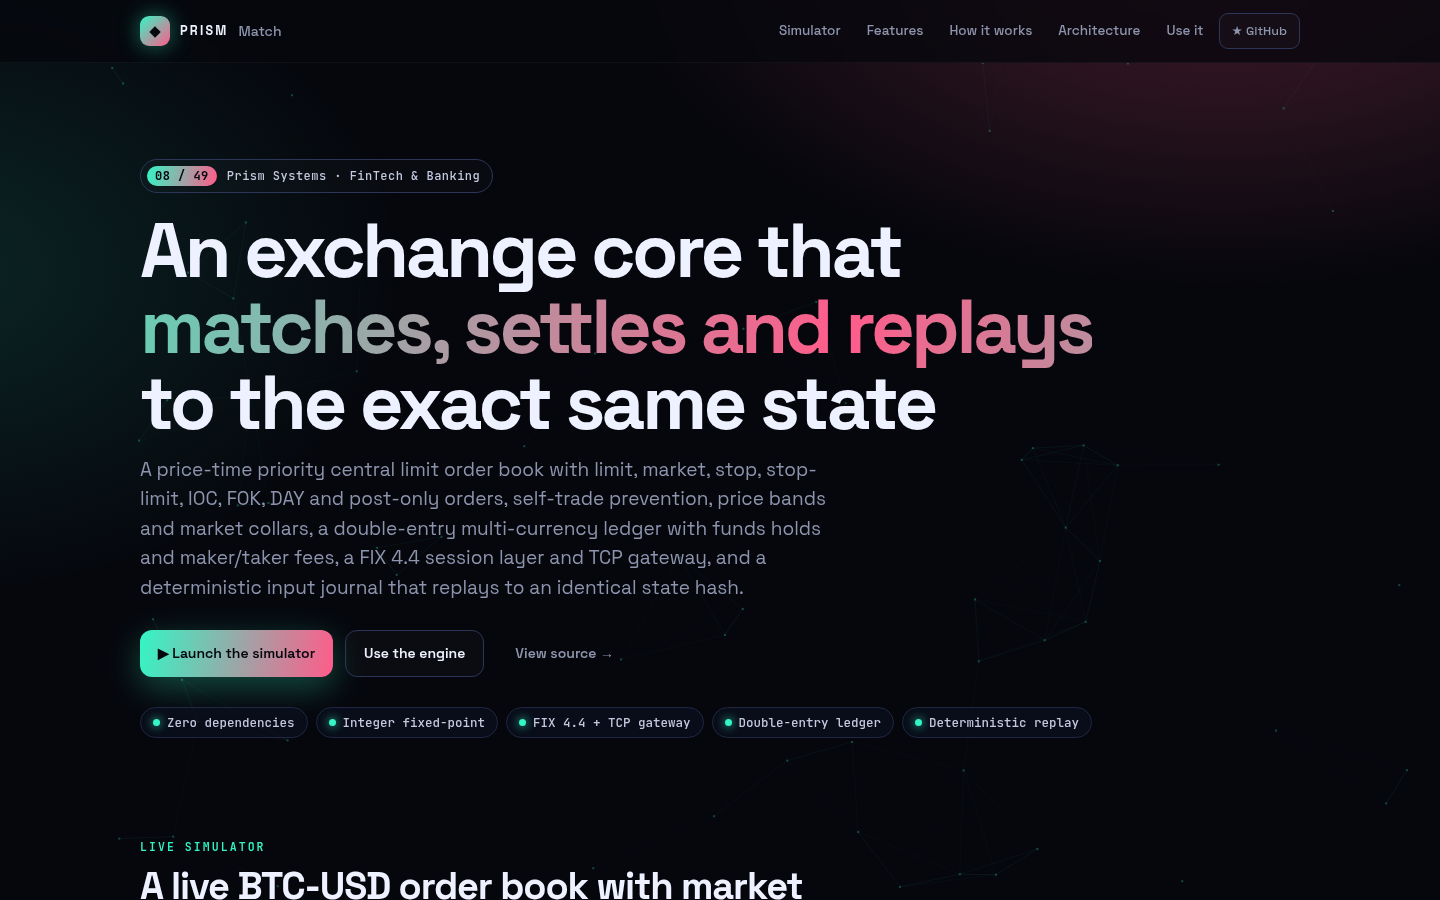
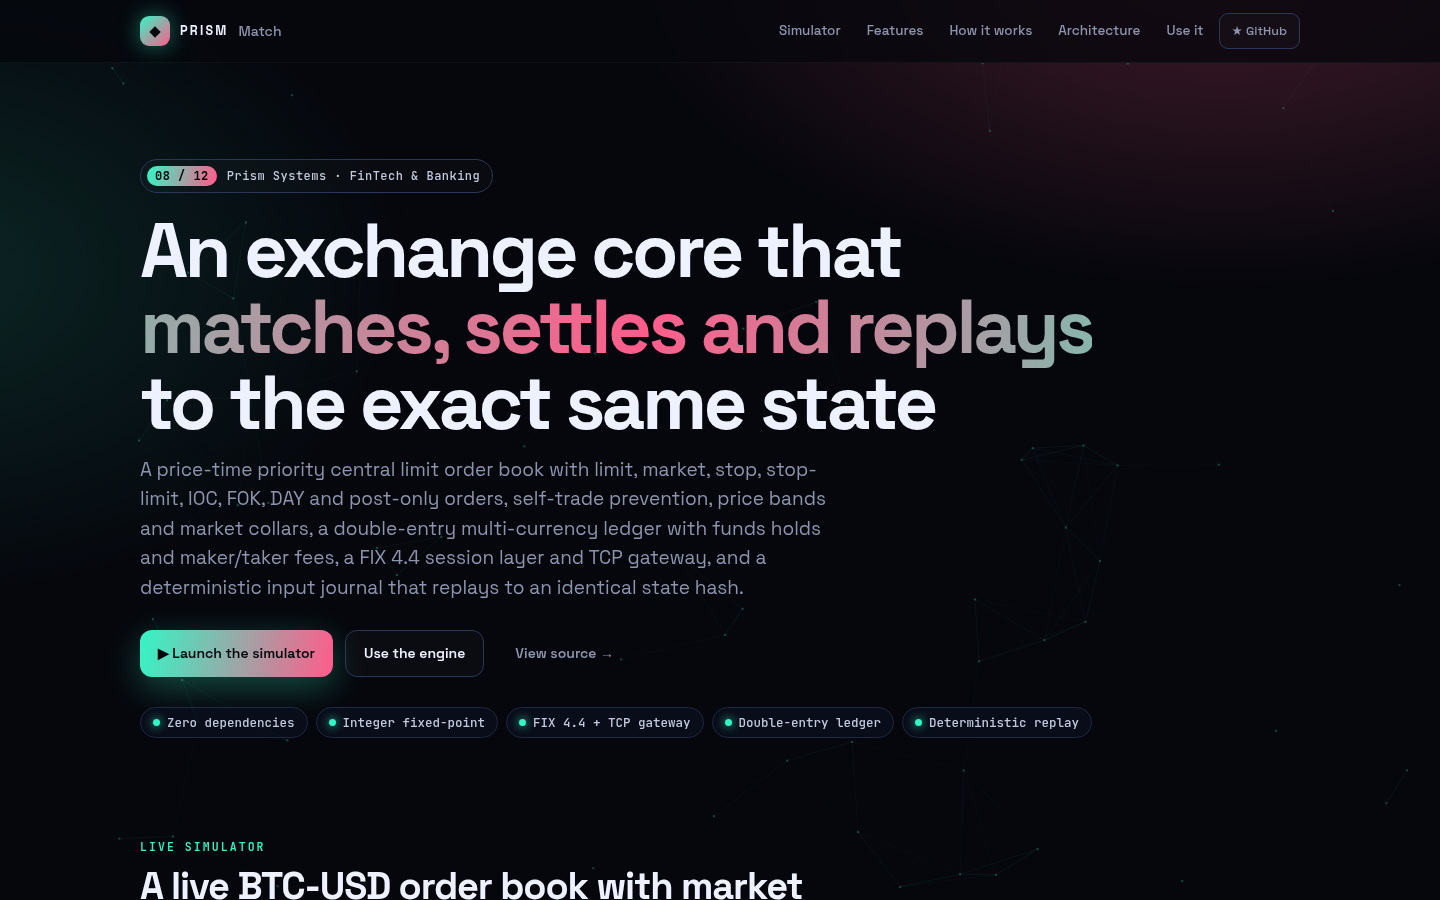
chore: polish branding, Prism Systems series of 12

Changed region(s): [[0.0938, 0.3422, 0.4688, 0.4044], [0.5312, 0.3422, 0.7812, 0.4044]]

diff --git a/index.html b/index.html
@@ -28,7 +28,7 @@
   </div></header>
   <main>
     <section class="hero wrap">
-      <p class="eyebrow"><span class="n">08 / 49</span>Prism Systems · FinTech &amp; Banking</p>
+      <p class="eyebrow"><span class="n">08 / 12</span>Prism Systems · FinTech &amp; Banking</p>
       <h1>An exchange core that <em>matches, settles and replays</em> to the exact same state</h1>
       <p class="lead">A price-time priority central limit order book with limit, market, stop, stop-limit, IOC, FOK, DAY and post-only orders, self-trade prevention, price bands and market collars, a double-entry multi-currency ledger with funds holds and maker/taker fees, a FIX 4.4 session layer and TCP gateway, and a deterministic input journal that replays to an identical state hash.</p>
       <div class="cta"><a class="btn primary" href="#sim">▶ Launch the simulator</a><a class="btn" href="#use">Use the engine</a><a class="btn ghost" href="https://github.com/krishyaa06/prism-matching-engine" target="_blank" rel="noreferrer">View source →</a></div>
@@ -135,7 +135,7 @@ fix.<span class="tk-f">handle</span>(cl.<span class="tk-f">order</span>({ clOrdI
     </section>
   </main>
   <footer class="foot"><div class="wrap">
-    <span>◆ Prism Matching Engine · Prism Systems 08/49 · Built by <a href="https://github.com/krishyaa06">Soumya Bhandare</a> &amp; <a href="https://dc.gg/prismprotocol" target="_blank" rel="noreferrer">Prism Protocol</a></span>
+    <span>◆ Prism Matching Engine · Prism Systems 08/12 · Built by <a href="https://github.com/krishyaa06">Soumya Bhandare</a> &amp; <a href="https://dc.gg/prismprotocol" target="_blank" rel="noreferrer">Prism Protocol</a></span>
     <span><a href="https://github.com/krishyaa06/prism-matching-engine" target="_blank" rel="noreferrer">Source</a> · <a href="https://github.com/krishyaa06/prism-matching-engine/blob/main/docs/ARCHITECTURE.md">Architecture</a> · <a href="https://github.com/krishyaa06/prism-matching-engine/blob/main/docs/USAGE.md">Docs</a> · MIT License</span>
   </div></footer>
   <script type="module" src="js/app.js"></script>

diff --git a/README.md b/README.md
@@ -1,4 +1,4 @@
-<!-- Prism Systems 08/49 -->
+<!-- Prism Systems 08/12 -->
 <p align="center">
   <img src="https://capsule-render.vercel.app/api?type=waving&color=0:06070d,55:34F5C5,100:FF5C8A&height=210&section=header&text=Prism%20Matching%20Engine&fontSize=50&fontColor=ffffff&animation=fadeIn&fontAlignY=35&desc=Price-time%20CLOB%20with%20FIX%204.4%2C%20ledger%20and%20deterministic%20replay&descAlignY=57&descSize=17" width="100%" alt="Prism Matching Engine" />
 </p>
@@ -12,7 +12,7 @@
   <a href="https://krishyaa06.github.io/prism-matching-engine/"><img src="https://img.shields.io/badge/Live_Simulator-Open-34F5C5?style=for-the-badge&logo=githubpages&logoColor=black" alt="Live simulator" /></a>
   <img src="https://img.shields.io/badge/Node.js-%E2%89%A518.17-339933?style=for-the-badge&logo=nodedotjs&logoColor=white" alt="Node.js 18+" />
   <img src="https://img.shields.io/badge/dependencies-0-FF5C8A?style=for-the-badge" alt="Zero dependencies" />
-  <img src="https://img.shields.io/badge/Prism_Systems-08%2F49-111827?style=for-the-badge" alt="Prism Systems 08/49" />
+  <img src="https://img.shields.io/badge/Prism_Systems-08%2F12-111827?style=for-the-badge" alt="Prism Systems 08/12" />
   <a href="LICENSE"><img src="https://img.shields.io/github/license/krishyaa06/prism-matching-engine?style=for-the-badge&color=FF5C8A" alt="MIT License" /></a>
 </p>
 
@@ -252,7 +252,7 @@ The test suite uses the built-in `node:test` runner, so there is nothing to inst
 
 ## 🔷 Part of Prism Systems
 
-**Prism Matching Engine** is system **08 of 49** in **Prism Systems**, a series of open-source reference implementations of large-scale infrastructure by [Prism Protocol](https://dc.gg/prismprotocol). Each one ships a real engine, a CLI and a live simulator, all with zero dependencies.
+**Prism Matching Engine** is system **08 of 12** in **Prism Systems**, a series of open-source reference implementations of large-scale infrastructure by [Prism Protocol](https://dc.gg/prismprotocol). Each one ships a real engine, a CLI and a live simulator, all with zero dependencies.
 
 ## 👤 Author
 
